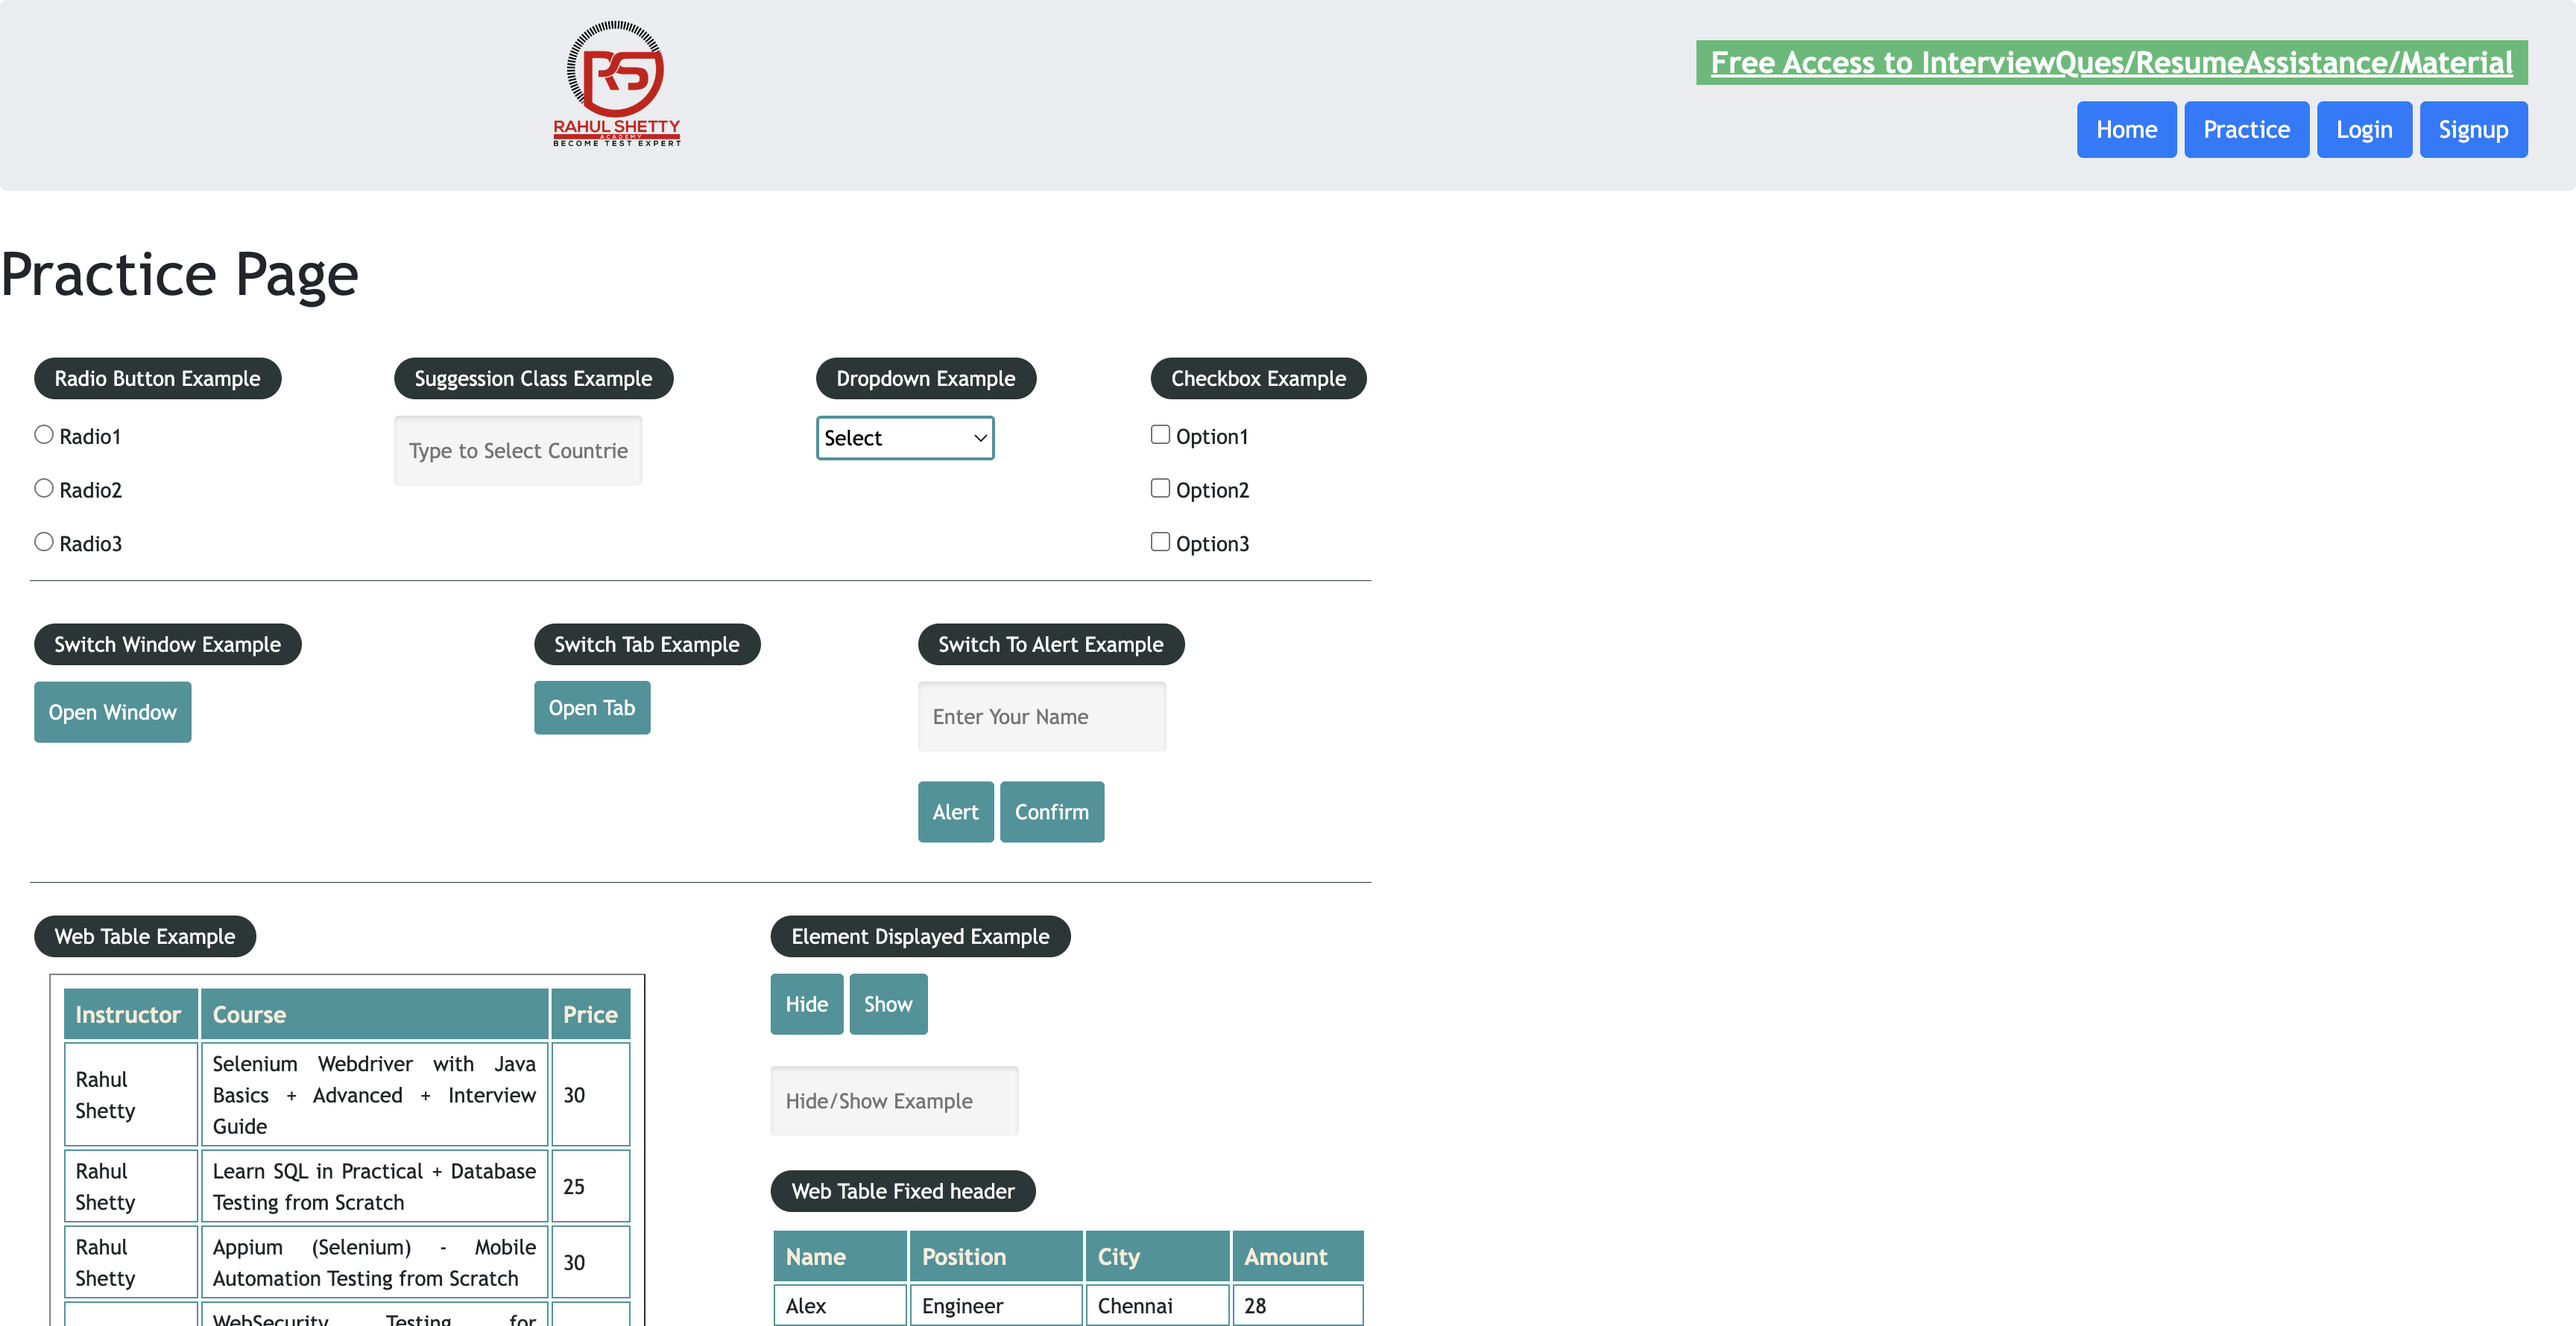
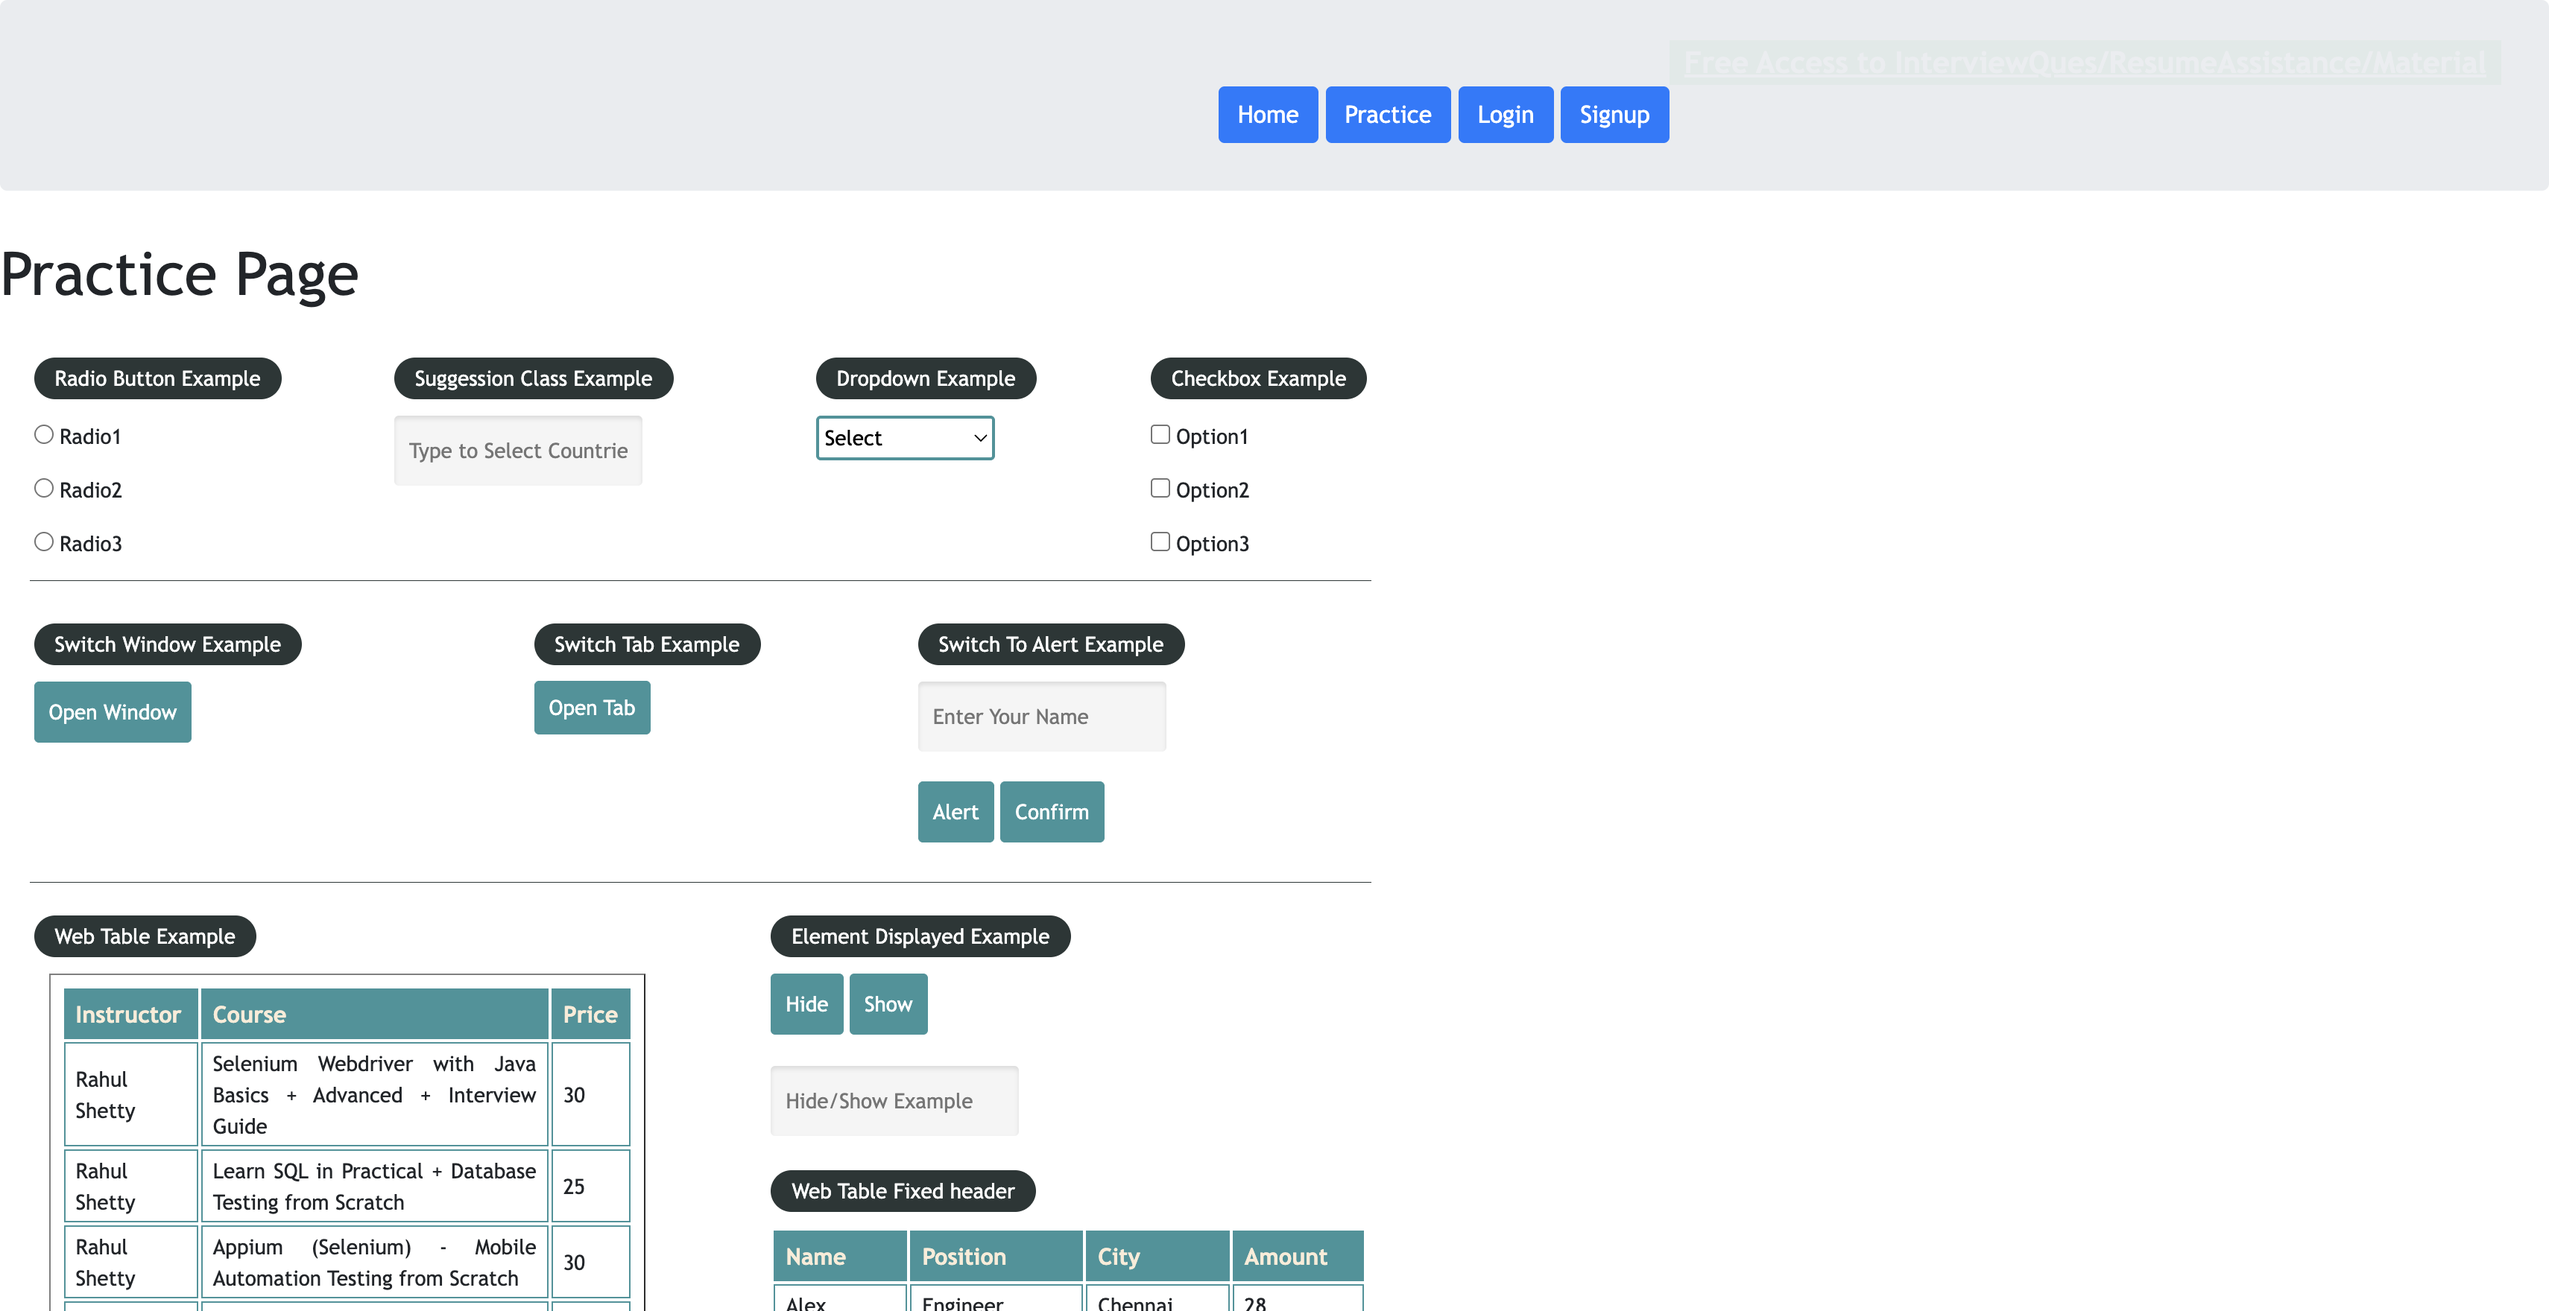
BISWAS

diff --git a/src/main/java/JavaStreams/test1.java b/src/main/java/JavaStreams/test1.java
@@ -1,5 +1,6 @@
 package JavaStreams;
 
+import org.testng.Assert;
 import org.testng.annotations.Test;
 
 import java.util.ArrayList;
@@ -63,15 +64,39 @@ public class test1 {
 
     @Test
     public void streamMap() {
+
+
+        List<String> names = new ArrayList<>();
+        names.add("man");
+        names.add("Don");
+        names.add("women");
+
+
         // Print the names which has last letter as 'a' with UpperCase
         // We use Map to manipulate any data
         Stream.of("Abhijeet", "Don", "Ananda", "Adam", "Rama").filter(s -> s.endsWith("a")).map(s -> s.toUpperCase()).forEach(System.out::println);
         Stream.of("Abhijeet", "Don", "Ananda", "Adam", "Rama").filter(s -> s.endsWith("a")).map(String::toUpperCase).forEach(System.out::println);
 
-        System.out.println("============");
-        List<String> names = Arrays.asList("Azbhijeet", "Don", "Ananda", "Adam", "Rama");
+
+        List<String> names1 = Arrays.asList("Azbhijeet", "Don", "Ananda", "Adam", "Rama");
         // Print names starts with ''a' with UpperCase and in Sorted order
-        names.stream().filter(s -> s.startsWith("A")).sorted().map(s -> s.toUpperCase()).forEach(System.out::println);
+        names1.stream().filter(s -> s.startsWith("A")).sorted().map(s -> s.toUpperCase()).forEach(System.out::println);
+        names1.stream().filter(s -> s.startsWith("A")).sorted().map(String::toUpperCase).forEach(System.out::println);
+
+        System.out.println("Merging two ArrayList to one ArrayList");
+        //Merging two ArrayList to one ArrayList
+        Stream<String> newStream = Stream.concat(names1.stream(), names.stream());
+        newStream.sorted().forEach(System.out::println);
+
+        System.out.println("Second Approach: Merging two ArrayList to one ArrayList");
+        Stream<String> newStream1 = Stream.concat(names1.stream(), names.stream());
+        newStream1.sorted().forEach(s -> System.out.println(s));
+
+
+        Stream<String> newStream2 = Stream.concat(names1.stream(), names.stream());
+        boolean flag = newStream2.anyMatch(s -> s.equalsIgnoreCase("Don"));
+        Assert.assertTrue(flag);
+
 
     }
 

diff --git a/src/main/java/Selenium/Base.java b/src/main/java/Selenium/Base.java
@@ -1,14 +1,16 @@
 package Selenium;
+
 import org.openqa.selenium.By;
 import org.openqa.selenium.WebDriver;
 import org.openqa.selenium.WebElement;
 import org.openqa.selenium.firefox.FirefoxDriver;
 import org.openqa.selenium.support.ui.ExpectedConditions;
 import org.openqa.selenium.support.ui.WebDriverWait;
+
 import java.time.Duration;
 import java.util.Arrays;
 import java.util.List;
-import java.util.concurrent.TimeUnit;
+
 public class Base {
     public static void main(String[] args) throws InterruptedException {
[1 lines of base64/hex data omitted]
@@ -36,6 +38,7 @@ public class Base {
         Thread.sleep(5000);
         driver.quit();
     }
+
     public void addItems(WebDriver driver, String[] itemsNeeded) {
         int j = 0;
         List itemNeededList = Arrays.asList(itemsNeeded);  // Converting Array to ArrayList

diff --git a/src/main/java/Selenium/WindowHandles.java b/src/main/java/Selenium/WindowHandles.java
@@ -2,17 +2,11 @@ package Selenium;
 
 import org.openqa.selenium.By;
 import org.openqa.selenium.WebDriver;
-import org.openqa.selenium.WebElement;
 import org.openqa.selenium.firefox.FirefoxDriver;
-import org.openqa.selenium.support.ui.ExpectedConditions;
-import org.openqa.selenium.support.ui.Select;
-import org.openqa.selenium.support.ui.WebDriverWait;
 
 import java.time.Duration;
 import java.util.Iterator;
-import java.util.List;
 import java.util.Set;
-import java.util.concurrent.TimeUnit;
 
 public class WindowHandles {
     public static void main(String[] args) throws InterruptedException {

diff --git a/src/main/java/Selenium/frameTest.java b/src/main/java/Selenium/frameTest.java
@@ -1,13 +1,13 @@
 package Selenium;
+
 import org.openqa.selenium.By;
-import org.openqa.selenium.Keys;
 import org.openqa.selenium.WebDriver;
 import org.openqa.selenium.WebElement;
 import org.openqa.selenium.chrome.ChromeDriver;
 import org.openqa.selenium.interactions.Actions;
 
 import java.time.Duration;
-import java.util.concurrent.TimeUnit;
+
 public class frameTest {
     public static void main(String[] args) throws InterruptedException {
[1 lines of base64/hex data omitted]

diff --git a/src/main/java/Selenium/JavaScriptExecutorDemo.java b/src/main/java/Selenium/JavaScriptExecutorDemo.java
@@ -1,12 +1,15 @@
 package Selenium;
+
 import org.openqa.selenium.By;
 import org.openqa.selenium.JavascriptExecutor;
 import org.openqa.selenium.WebDriver;
 import org.openqa.selenium.WebElement;
 import org.openqa.selenium.chrome.ChromeDriver;
 import org.testng.Assert;
+
 import java.time.Duration;
 import java.util.List;
+
 public class JavaScriptExecutorDemo {
     public static void main(String[] args) throws InterruptedException {
[1 lines of base64/hex data omitted]

diff --git a/src/main/java/Selenium/Practice_Assignment_002.java b/src/main/java/Selenium/Practice_Assignment_002.java
@@ -1,10 +1,10 @@
 package Selenium;
-import io.opentelemetry.exporter.logging.SystemOutLogRecordExporter;
+
 import org.openqa.selenium.By;
 import org.openqa.selenium.WebDriver;
 import org.openqa.selenium.chrome.ChromeDriver;
 import org.openqa.selenium.support.ui.Select;
-import org.testng.Assert;
+
 public class Practice_Assignment_002 {
     public static void main(String[] args) throws InterruptedException {
[1 lines of base64/hex data omitted]

diff --git a/src/main/java/Selenium/fluentWaitTest.java b/src/main/java/Selenium/fluentWaitTest.java
@@ -1,12 +1,15 @@
 package Selenium;
+
 import org.openqa.selenium.By;
 import org.openqa.selenium.NoSuchElementException;
 import org.openqa.selenium.WebDriver;
 import org.openqa.selenium.WebElement;
 import org.openqa.selenium.firefox.FirefoxDriver;
 import org.openqa.selenium.support.ui.FluentWait;
+
 import java.time.Duration;
 import java.util.function.Function;
+
 public class fluentWaitTest {
     public static void main(String[] args) throws InterruptedException {
         WebDriver driver = new FirefoxDriver();

diff --git a/src/main/java/Selenium/e2e.java b/src/main/java/Selenium/e2e.java
@@ -1,10 +1,12 @@
 package Selenium;
+
 import org.openqa.selenium.By;
 import org.openqa.selenium.WebDriver;
 import org.openqa.selenium.WebElement;
 import org.openqa.selenium.chrome.ChromeDriver;
 import org.openqa.selenium.support.ui.Select;
 import org.testng.Assert;
+
 public class e2e {
     public static void main(String[] args) throws InterruptedException {
[1 lines of base64/hex data omitted]

diff --git a/src/main/java/Selenium/Practice_Assignment_003.java b/src/main/java/Selenium/Practice_Assignment_003.java
@@ -7,9 +7,9 @@ import org.openqa.selenium.firefox.FirefoxDriver;
 import org.openqa.selenium.support.ui.ExpectedConditions;
 import org.openqa.selenium.support.ui.Select;
 import org.openqa.selenium.support.ui.WebDriverWait;
+
 import java.time.Duration;
 import java.util.List;
-import java.util.concurrent.TimeUnit;
 
 public class Practice_Assignment_003 {
     public static void main(String[] args) throws InterruptedException {

diff --git a/src/main/java/Selenium/Practice_Assignment_005.java b/src/main/java/Selenium/Practice_Assignment_005.java
@@ -2,12 +2,9 @@ package Selenium;
 
 import org.openqa.selenium.By;
 import org.openqa.selenium.WebDriver;
-import org.openqa.selenium.WebElement;
 import org.openqa.selenium.chrome.ChromeDriver;
-import org.openqa.selenium.interactions.Actions;
 
 import java.time.Duration;
-import java.util.concurrent.TimeUnit;
 
 public class Practice_Assignment_005 {
     public static void main(String[] args) throws InterruptedException {

diff --git a/src/main/java/Selenium/StaticDropDown.java b/src/main/java/Selenium/StaticDropDown.java
@@ -1,10 +1,12 @@
 package Selenium;
+
 import org.openqa.selenium.By;
 import org.openqa.selenium.WebDriver;
 import org.openqa.selenium.WebElement;
 import org.openqa.selenium.chrome.ChromeDriver;
 import org.openqa.selenium.support.ui.Select;
 import org.testng.Assert;
+
 public class StaticDropDown {
     public static void main(String[] args) throws InterruptedException {
         String name = "Mrinmoy";

diff --git a/src/main/java/Selenium/Locators2.java b/src/main/java/Selenium/Locators2.java
@@ -2,12 +2,8 @@ package Selenium;
 
 import org.openqa.selenium.By;
 import org.openqa.selenium.WebDriver;
-import org.openqa.selenium.chrome.ChromeDriver;
 import org.openqa.selenium.edge.EdgeDriver;
-import org.openqa.selenium.firefox.FirefoxDriver;
 import org.testng.Assert;
-
-import java.util.Arrays;
 
 public class Locators2 {
     public static void main(String[] args) throws InterruptedException {
